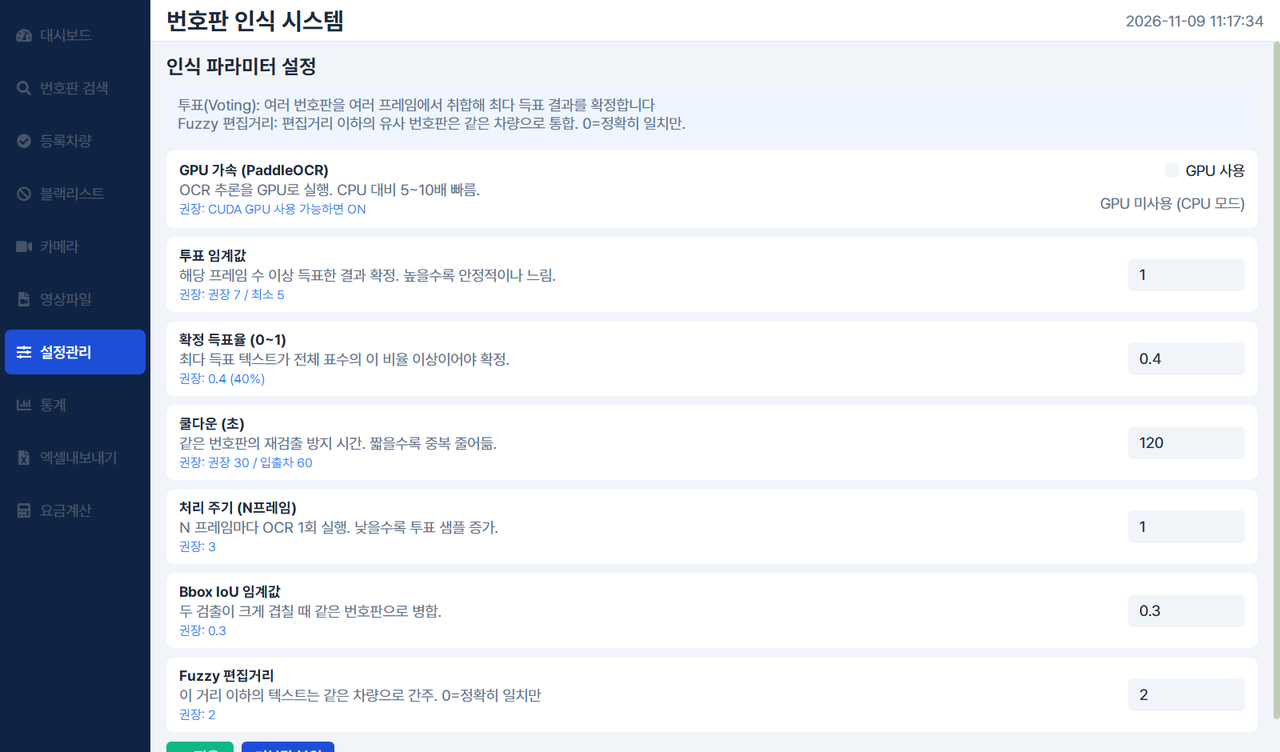
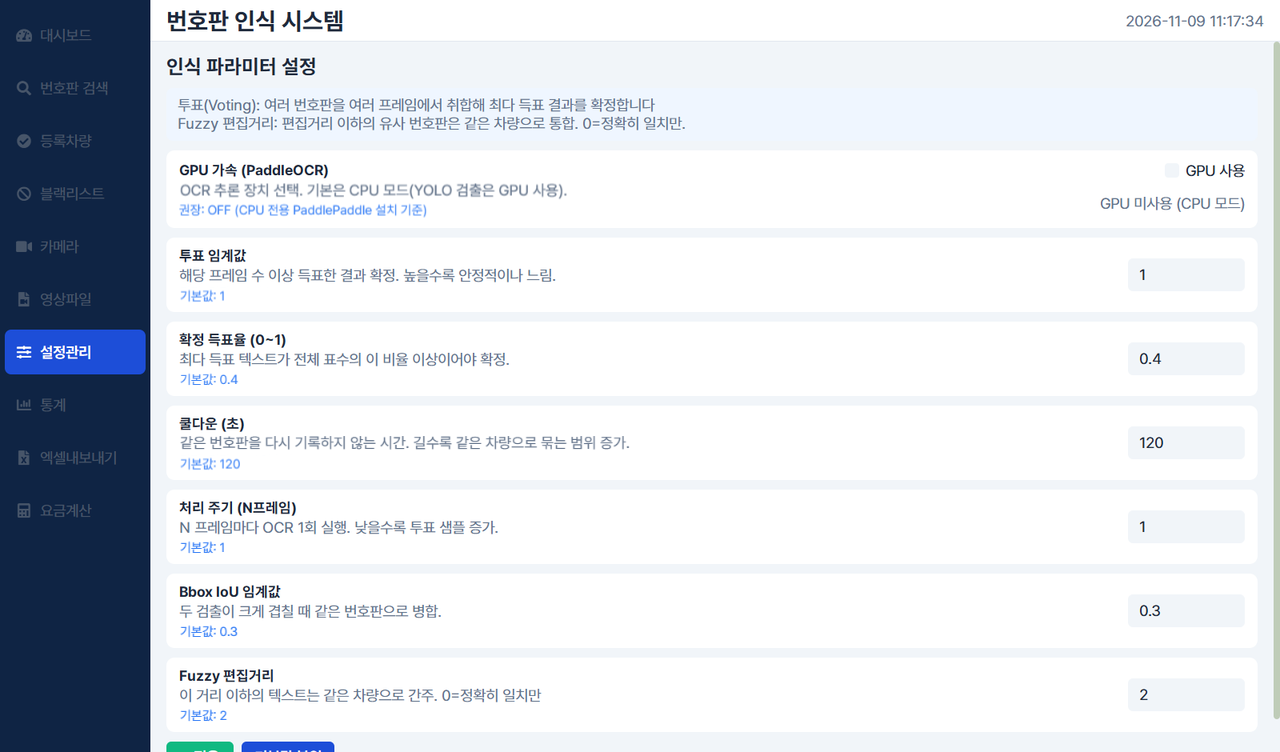
학습 스크립트 절대 경로를 저장소 기준 경로로 교체, 설정관리 화면 문구·기본값 복원을 실제 기본값과 맞춤, README 문구를 확인된 사실 기준으로 정리, 미사용 화면 삭제

diff --git a/lpr_system/app_pyqt6.py b/lpr_system/app_pyqt6.py
@@ -2229,9 +2229,9 @@ class MainWindow(QMainWindow):
         gpu_text_col = QVBoxLayout(); gpu_text_col.setSpacing(3)
         gpu_title = QLabel("GPU 가속 (PaddleOCR)")
         gpu_title.setStyleSheet(f"font-weight: bold; font-size: 18px; color: {C_TEXT};")
-        gpu_desc  = QLabel("OCR 추론을 GPU로 실행. CPU 대비 5~10배 빠름.")
+        gpu_desc  = QLabel("OCR 추론 장치 선택. 기본은 CPU 모드(YOLO 검출은 GPU 사용).")
         gpu_desc.setObjectName("Muted")
-        gpu_rec   = QLabel("권장: CUDA GPU 사용 가능하면 ON")
+        gpu_rec   = QLabel("권장: OFF (CPU 전용 PaddlePaddle 설치 기준)")
         gpu_rec.setStyleSheet(f"color: {C_ACCENT}; font-size: 16px;")
         gpu_text_col.addWidget(gpu_title); gpu_text_col.addWidget(gpu_desc); gpu_text_col.addWidget(gpu_rec)
         gl.addLayout(gpu_text_col, 1)
@@ -2260,26 +2260,28 @@ class MainWindow(QMainWindow):
         params = [
             ("투표 임계값",
              "해당 프레임 수 이상 득표한 결과 확정. 높을수록 안정적이나 느림.",
-             "권장 7 / 최소 5", pl.VOTE_FRAMES),
+             pl.VOTE_FRAMES),
             ("확정 득표율 (0~1)",
              "최다 득표 텍스트가 전체 표수의 이 비율 이상이어야 확정.",
-             "0.4 (40%)", pl.VOTE_WIN_RATIO),
+             pl.VOTE_WIN_RATIO),
             ("쿨다운 (초)",
-             "같은 번호판의 재검출 방지 시간. 짧을수록 중복 줄어듦.",
-             "권장 30 / 입출차 60", pl.COOLDOWN_SEC),
+             "같은 번호판을 다시 기록하지 않는 시간. 길수록 같은 차량으로 묶는 범위 증가.",
+             pl.COOLDOWN_SEC),
             ("처리 주기 (N프레임)",
              "N 프레임마다 OCR 1회 실행. 낮을수록 투표 샘플 증가.",
-             "3", pl.PROCESS_EVERY_N),
+             pl.PROCESS_EVERY_N),
             ("Bbox IoU 임계값",
              "두 검출이 크게 겹칠 때 같은 번호판으로 병합.",
-             "0.3", pl.VOTE_IOU_TH),
+             pl.VOTE_IOU_TH),
             ("Fuzzy 편집거리",
              "이 거리 이하의 텍스트는 같은 차량으로 간주. 0=정확히 일치만",
-             "2", pl.FUZZY_DIST),
+             pl.FUZZY_DIST),
         ]
+        # 화면을 만들 때의 pipeline.py 값 = 기본값 (적용 전이므로 원래 값)
+        self._param_defaults = [str(val) for _, _, val in params]
         self._set_fields = []
-        for title, desc, rec, val in params:
-            card, field = self._param_card(title, desc, rec, str(val))
+        for title, desc, val in params:
+            card, field = self._param_card(title, desc, str(val), str(val))
             lo.addWidget(card)
             self._set_fields.append(field)
 
@@ -2307,7 +2309,7 @@ class MainWindow(QMainWindow):
         text_col = QVBoxLayout(); text_col.setSpacing(3)
         t = QLabel(title); t.setStyleSheet(f"font-weight: bold; font-size: 18px; color: {C_TEXT};")
         d = QLabel(desc);  d.setObjectName("Muted")
-        r = QLabel(f"권장: {recommend}"); r.setStyleSheet(f"color: {C_ACCENT}; font-size: 16px;")
+        r = QLabel(f"기본값: {recommend}"); r.setStyleSheet(f"color: {C_ACCENT}; font-size: 16px;")
         text_col.addWidget(t); text_col.addWidget(d); text_col.addWidget(r)
         lo.addLayout(text_col, 1)
         field = QLineEdit(value); field.setFixedWidth(146)
@@ -2361,7 +2363,7 @@ class MainWindow(QMainWindow):
             self.set_status_lbl.setStyleSheet(f"color: {C_RED}; font-size: 19px;")
 
     def reset_settings(self):
-        defaults = ["7", "0.4", "30", "3", "0.3", "2"]
+        defaults = self._param_defaults
         for f, v in zip(self._set_fields, defaults):
             f.setText(v)
         self.set_status_lbl.setText("기본값으로 복원됨")

diff --git a/train_ocr.py b/train_ocr.py
@@ -4,6 +4,9 @@ PaddleOCR 인식 모델 파인튜닝
 from paddleocr import PaddleOCR
 import subprocess
 import sys
+from pathlib import Path
+
+ROOT = Path(__file__).resolve().parent.as_posix()  # 저장소 폴더 기준 경로
 
 if __name__ == '__main__':
     cmd = [
@@ -14,11 +17,11 @@ if __name__ == '__main__':
         "-o",
         "Global.pretrained_model=ch_PP-OCRv4_rec_train/best_accuracy",
         "Global.character_dict_path=ppocr/utils/ppocr_keys_v1.txt",
-        "Train.dataset.data_dir=C:/Users/AISW_203_106/Desktop/LPR_Parking/PlateSample/images",
-        "Train.dataset.label_file_list=[C:/Users/AISW_203_106/Desktop/LPR_Parking/ocr_dataset/train_list.txt]",
-        "Eval.dataset.data_dir=C:/Users/AISW_203_106/Desktop/LPR_Parking/PlateSample/images",
-        "Eval.dataset.label_file_list=[C:/Users/AISW_203_106/Desktop/LPR_Parking/ocr_dataset/val_list.txt]",
-        "Global.save_model_dir=C:/Users/AISW_203_106/Desktop/LPR_Parking/ocr_output",
+        f"Train.dataset.data_dir={ROOT}/PlateSample/images",
+        f"Train.dataset.label_file_list=[{ROOT}/ocr_dataset/train_list.txt]",
+        f"Eval.dataset.data_dir={ROOT}/PlateSample/images",
+        f"Eval.dataset.label_file_list=[{ROOT}/ocr_dataset/val_list.txt]",
+        f"Global.save_model_dir={ROOT}/ocr_output",
         "Train.loader.batch_size_per_card=128",
         "Global.epoch_num=50",
         "Global.eval_batch_step=[0,1000]",

diff --git a/make_val.py b/make_val.py
@@ -8,12 +8,13 @@ import random
 from pathlib import Path
 from tqdm import tqdm
 
-LABELS_DIR = r"C:\Users\AISW_203_106\Desktop\LPR_Parking\yolo_labels"
-IMAGES_DIR = r"C:\Users\AISW_203_106\Desktop\LPR_Parking\PlateSample\images\train"
-OUT_TRAIN_IMG = r"C:\Users\AISW_203_106\Desktop\LPR_Parking\dataset\images\train"
-OUT_VAL_IMG   = r"C:\Users\AISW_203_106\Desktop\LPR_Parking\dataset\images\val"
-OUT_TRAIN_LBL = r"C:\Users\AISW_203_106\Desktop\LPR_Parking\dataset\labels\train"
-OUT_VAL_LBL   = r"C:\Users\AISW_203_106\Desktop\LPR_Parking\dataset\labels\val"
+ROOT = Path(__file__).resolve().parent  # 저장소 폴더 기준 경로
+LABELS_DIR = ROOT / "yolo_labels"
+IMAGES_DIR = ROOT / "PlateSample" / "images" / "train"
+OUT_TRAIN_IMG = ROOT / "dataset" / "images" / "train"
+OUT_VAL_IMG   = ROOT / "dataset" / "images" / "val"
+OUT_TRAIN_LBL = ROOT / "dataset" / "labels" / "train"
+OUT_VAL_LBL   = ROOT / "dataset" / "labels" / "val"
 VAL_RATIO = 0.1
 
 for d in [OUT_TRAIN_IMG, OUT_VAL_IMG, OUT_TRAIN_LBL, OUT_VAL_LBL]:

diff --git a/lpr_system/pipeline.py b/lpr_system/pipeline.py
@@ -263,7 +263,7 @@ def _snap_to_whitelist(plate_text: str, conn) -> str:
 #  번호판 한글 검사
 #  번호판 용도 기호로 쓰지 않는 한글('시', '리' 등)이 나오면 오인식으로 보고 버린다.
 #  영상 모드는 같은 추적 ID를 0.5초 뒤 다시 읽고, 카메라 모드는 다음 프레임에서 다시 읽는다.
-#  실험 결과: 오답 12건 중 10건 제외, 정답 제외 0건
+#  실험 결과: 저장소 README 3장 비교 2
 #  (experiments/detector_ocr_check)
 # ══════════════════════════════════════════════════════════════
 PLATE_HANGUL = frozenset(

diff --git a/lpr_system/detector.py b/lpr_system/detector.py
@@ -11,7 +11,7 @@ from typing import List, Tuple, Optional, Dict
 
 # ── YOLO 모델 ────────────────────────────────────────────────────
 # YOLOv11m, AIHub 부감(overhead) 각도 데이터 10만장 학습.
-# 실제 배포 카메라도 부감 각도이므로 이 모델을 사용한다.
+# 설치 대상 카메라도 부감 각도로 가정하고 이 모델을 사용한다.
 _MODELS_DIR  = os.path.join(os.path.dirname(os.path.abspath(__file__)), "models")
 _YOLO_PT     = os.path.join(_MODELS_DIR, "plate_yolo11m.pt")
 _YOLO_MODEL  = None

diff --git a/train.py b/train.py
@@ -1,16 +1,20 @@
+from pathlib import Path
+
 from ultralytics import YOLO
+
+ROOT = Path(__file__).resolve().parent  # 저장소 폴더 기준 경로
 
 if __name__ == '__main__':
     model = YOLO("yolo11m.pt")
 
     model.train(
-        data    = "C:/Users/AISW_203_106/Desktop/LPR_Parking/dataset.yaml",
+        data    = str(ROOT / "dataset.yaml"),
         epochs  = 100,
         imgsz   = 640,
         batch   = 16,
         device  = 0,
         workers = 4,
         patience = 20,
-        project = "C:/Users/AISW_203_106/Desktop/LPR_Parking/runs",
+        project = str(ROOT / "runs"),
         name    = "plate_detect",
     )

diff --git a/json_to_yolo.py b/json_to_yolo.py
@@ -9,9 +9,10 @@ from pathlib import Path
 from PIL import Image
 from tqdm import tqdm
 
-ANNOTATIONS_DIR = r"C:\Users\AISW_203_106\Desktop\LPR_Parking\PlateSample\annotations"
-IMAGES_DIR      = r"C:\Users\AISW_203_106\Desktop\LPR_Parking\PlateSample\images\train"
-OUTPUT_LABELS   = r"C:\Users\AISW_203_106\Desktop\LPR_Parking\yolo_labels"
+ROOT = Path(__file__).resolve().parent  # 저장소 폴더 기준 경로
+ANNOTATIONS_DIR = ROOT / "PlateSample" / "annotations"
+IMAGES_DIR      = ROOT / "PlateSample" / "images" / "train"
+OUTPUT_LABELS   = ROOT / "yolo_labels"
 
 os.makedirs(OUTPUT_LABELS, exist_ok=True)
 

diff --git a/make_ocr_dataset.py b/make_ocr_dataset.py
@@ -7,8 +7,9 @@ import random
 from pathlib import Path
 from tqdm import tqdm
 
-IMAGES_DIR  = r"C:\Users\AISW_203_106\Desktop\LPR_Parking\PlateSample\images"
-OUTPUT_DIR  = r"C:\Users\AISW_203_106\Desktop\LPR_Parking\ocr_dataset"
+ROOT = Path(__file__).resolve().parent  # 저장소 폴더 기준 경로
+IMAGES_DIR  = ROOT / "PlateSample" / "images"
+OUTPUT_DIR  = ROOT / "ocr_dataset"
 LIMIT       = 300000  # 30만장 사용
 VAL_RATIO   = 0.1
 

diff --git a/README.md b/README.md
@@ -103,8 +103,8 @@ flowchart LR
 
 ## 3. 검증 실험: 인식 실패 원인 분리
 
-이전 버전(YOLO n + EasyOCR)은 번호판을 거의 읽지 못했고, 대부분의 프레임이 폴백 검출로 넘어갔다.
-처음에는 OCR 문제로 보고 OCR을 바꿨지만, 원인은 그 앞의 검출 단계였다. YOLO n을 m으로 바꿔 검출을 안정시켰다.
+이전 버전(YOLO n + EasyOCR)에서는 대부분의 프레임이 YOLO 검출 대신 폴백 검출로 처리되고 있었다.
+처음에는 OCR 문제로 보고 OCR을 바꿨지만, 원인은 그 앞의 검출 단계였다. 이후 검출 모델을 YOLOv11m으로 다시 학습했다([1장](#1-검출-모델-학습)).
 아래는 OCR 단계를 따로 확인한 비교다. 직접 촬영한 도로 영상 6개(1초 간격 185프레임)를 썼다.
 이 영상은 길가에서 눈높이로 찍어 학습 데이터와 촬영 각도가 달라 YOLO 검출 결과는 비교에 쓰지 않았다.
 
@@ -231,7 +231,7 @@ PaddleOCR을 유지한 근거는 노란 영업용 1줄 번호판(5/7 대 3/7)이
 
 | 문제 | 원인 | 해결 |
 |---|---|---|
-| 번호판이 폴백 검출에서만 잡힘 | YOLO n 크기로는 번호판 위치를 제대로 검출하지 못함. 처음엔 OCR을 의심해 교체했으나 원인은 검출 단계 | YOLOv11m으로 변경 |
+| 번호판이 폴백 검출에서만 잡힘 | 폴백 검출이 YOLO 검출 실패를 가리고 있었음. 처음엔 OCR을 의심해 교체했으나 원인은 검출 단계 | 검출 모델을 YOLOv11m으로 다시 학습 |
 | YOLO m 변경 후 프레임 드랍 | 추론과 영상 표시를 한 흐름에서 처리 | 추론과 화면 표시를 서로 다른 스레드로 분리 |
 | OCR 오답에 번호판에 쓰지 않는 한글 포함 | 흐린 글자의 짧은 획을 놓침('사'를 '시'로) | 용도 기호 40자 검사 추가, 오답 7건에서 1건 (3장 비교 2) |
 | paddle을 torch보다 먼저 불러오면 torch DLL 로드 실패 (WinError 127) | 같은 프로세스에서 두 라이브러리의 불러오는 순서에 따라 발생 | torch(`detector`)를 먼저 불러오는 순서 유지 (앱·실험 스크립트 동일) |
@@ -307,6 +307,8 @@ dash_env\Scripts\python -m streamlit run dashboard.py
 ```
 
 ### 검출 모델 재학습
+
+AIHub 원본 라벨과 이미지를 저장소 폴더 아래 `PlateSample/annotations`, `PlateSample/images/train`에 두고 실행한다.
 
 ```bash
 python json_to_yolo.py   # AIHub JSON 라벨을 YOLO 형식으로 변환

diff --git a/lpr_system/README.md b/lpr_system/README.md
@@ -37,7 +37,7 @@ python app_pyqt6.py
 
 ### 앱 실행 화면
 
-`load_demo_data.py`로 데모 데이터를 불러온 `parking.db`의 사본으로 앱을 띄워 메뉴별로 찍은 화면. 창 크기 1600×940. 영상 파일 처리 화면은 [저장소 README](../README.md) 첫 그림 참고.
+`load_demo_data.py`로 데모 데이터를 불러온 `parking.db`의 사본으로 앱을 띄워 메뉴별로 찍은 화면. 창 크기 1600×940.
 
 <img src="../assets/lpr_system_app_dashboard.png" width="900">
 
